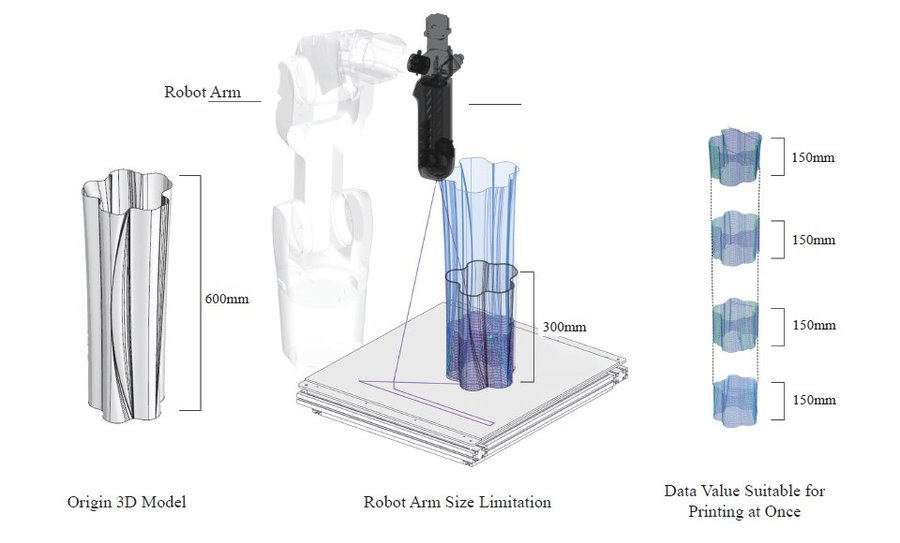
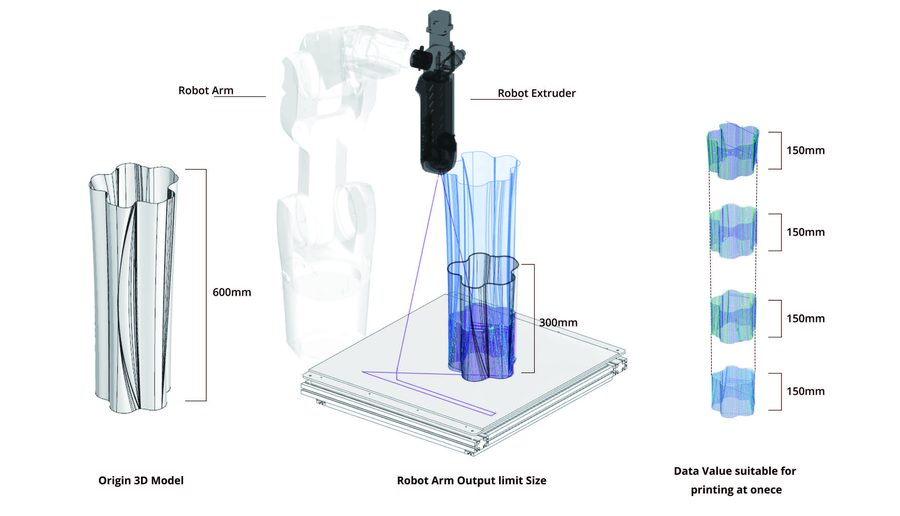
Add files via upload

diff --git a/src/styles/global.css b/src/styles/global.css
@@ -101,12 +101,14 @@ header.titlebar nav a:hover{color:var(--bone);}
 /* ---- work grid (clickable cards) ---- */
 .work-grid{
   display:grid;
-  grid-template-columns:repeat(auto-fit, minmax(300px, 1fr));
+  grid-template-columns:repeat(auto-fill, minmax(280px, 320px));
   border-top:0.5px solid var(--grid-line-strong);
   border-left:0.5px solid var(--grid-line-strong);
 }
 .sheet{
-  display:block;
+  display:flex;
+  flex-direction:column;
+  height:320px;
   text-decoration:none;
   border-right:0.5px solid var(--grid-line-strong);
   border-bottom:0.5px solid var(--grid-line-strong);
@@ -139,12 +141,15 @@ header.titlebar nav a:hover{color:var(--bone);}
   font-size:21px;
   margin:14px 0 12px;
   color:var(--bone);
+  display:-webkit-box; -webkit-line-clamp:2; -webkit-box-orient:vertical; overflow:hidden;
 }
 .sheet p{
   font-size:15px;
   color:var(--bone-dim);
   margin-bottom:18px;
+  display:-webkit-box; -webkit-line-clamp:3; -webkit-box-orient:vertical; overflow:hidden;
 }
+.sheet .tags{margin-top:auto;}
 .tags{display:flex; flex-wrap:wrap; gap:8px;}
 .tags span{
   font-family:'IBM Plex Mono', monospace;
@@ -249,6 +254,36 @@ footer a{text-decoration:underline; text-underline-offset:3px; color:var(--bone)
 }
 
 .method-block{border-left:1px solid var(--grid-line-strong); padding-left:20px; margin:24px 0 40px;}
+
+/* ---- thumbnail gallery + lightbox ---- */
+.gallery-grid{display:grid; grid-template-columns:repeat(3, 1fr); gap:6px; margin:16px 0 20px;}
+.gallery-grid img{
+  width:100%; aspect-ratio:1; object-fit:cover; cursor:zoom-in;
+  border:0.5px solid var(--grid-line-strong); transition:opacity .15s; display:block;
+}
+.gallery-grid img:hover{opacity:0.8;}
+.lightbox{
+  position:fixed; inset:0; background:rgba(10,9,7,0.94); z-index:100;
+  display:none; align-items:center; justify-content:center; padding:40px; cursor:zoom-out;
+}
+.lightbox.open{display:flex;}
+.lightbox img{max-width:100%; max-height:100%; border:1px solid var(--grid-line-strong);}
+.lightbox-close{
+  position:absolute; top:24px; right:32px; color:var(--bone);
+  font-family:'IBM Plex Mono',monospace; font-size:13px; cursor:pointer;
+}
+
+/* ---- sub-tabs (e.g. Earth: Brick / Bench / Dye / Material Testing) ---- */
+.subtabs{display:flex; gap:4px; margin:18px 0 16px; flex-wrap:wrap; border-bottom:0.5px solid var(--grid-line-strong);}
+.subtab-btn{
+  background:none; border:none; cursor:pointer;
+  font-family:'IBM Plex Mono',monospace; font-size:11.5px; text-transform:uppercase; letter-spacing:.04em;
+  color:var(--bone-dim); padding:10px 4px; margin-right:20px; border-bottom:2px solid transparent;
+}
+.subtab-btn.active{color:var(--bone); border-bottom-color:var(--rust);}
+.subtab-panel{display:none;}
+.subtab-panel.active{display:block;}
+.subtab-panel p{color:var(--bone-dim); font-size:14px; margin-bottom:10px;}
 
 /* ---- expandable sub-item accordion (Fabrication Studies, Material Research) ---- */
 .spec-item{border:0.5px solid var(--grid-line-strong); margin:14px 0; padding:0;}
